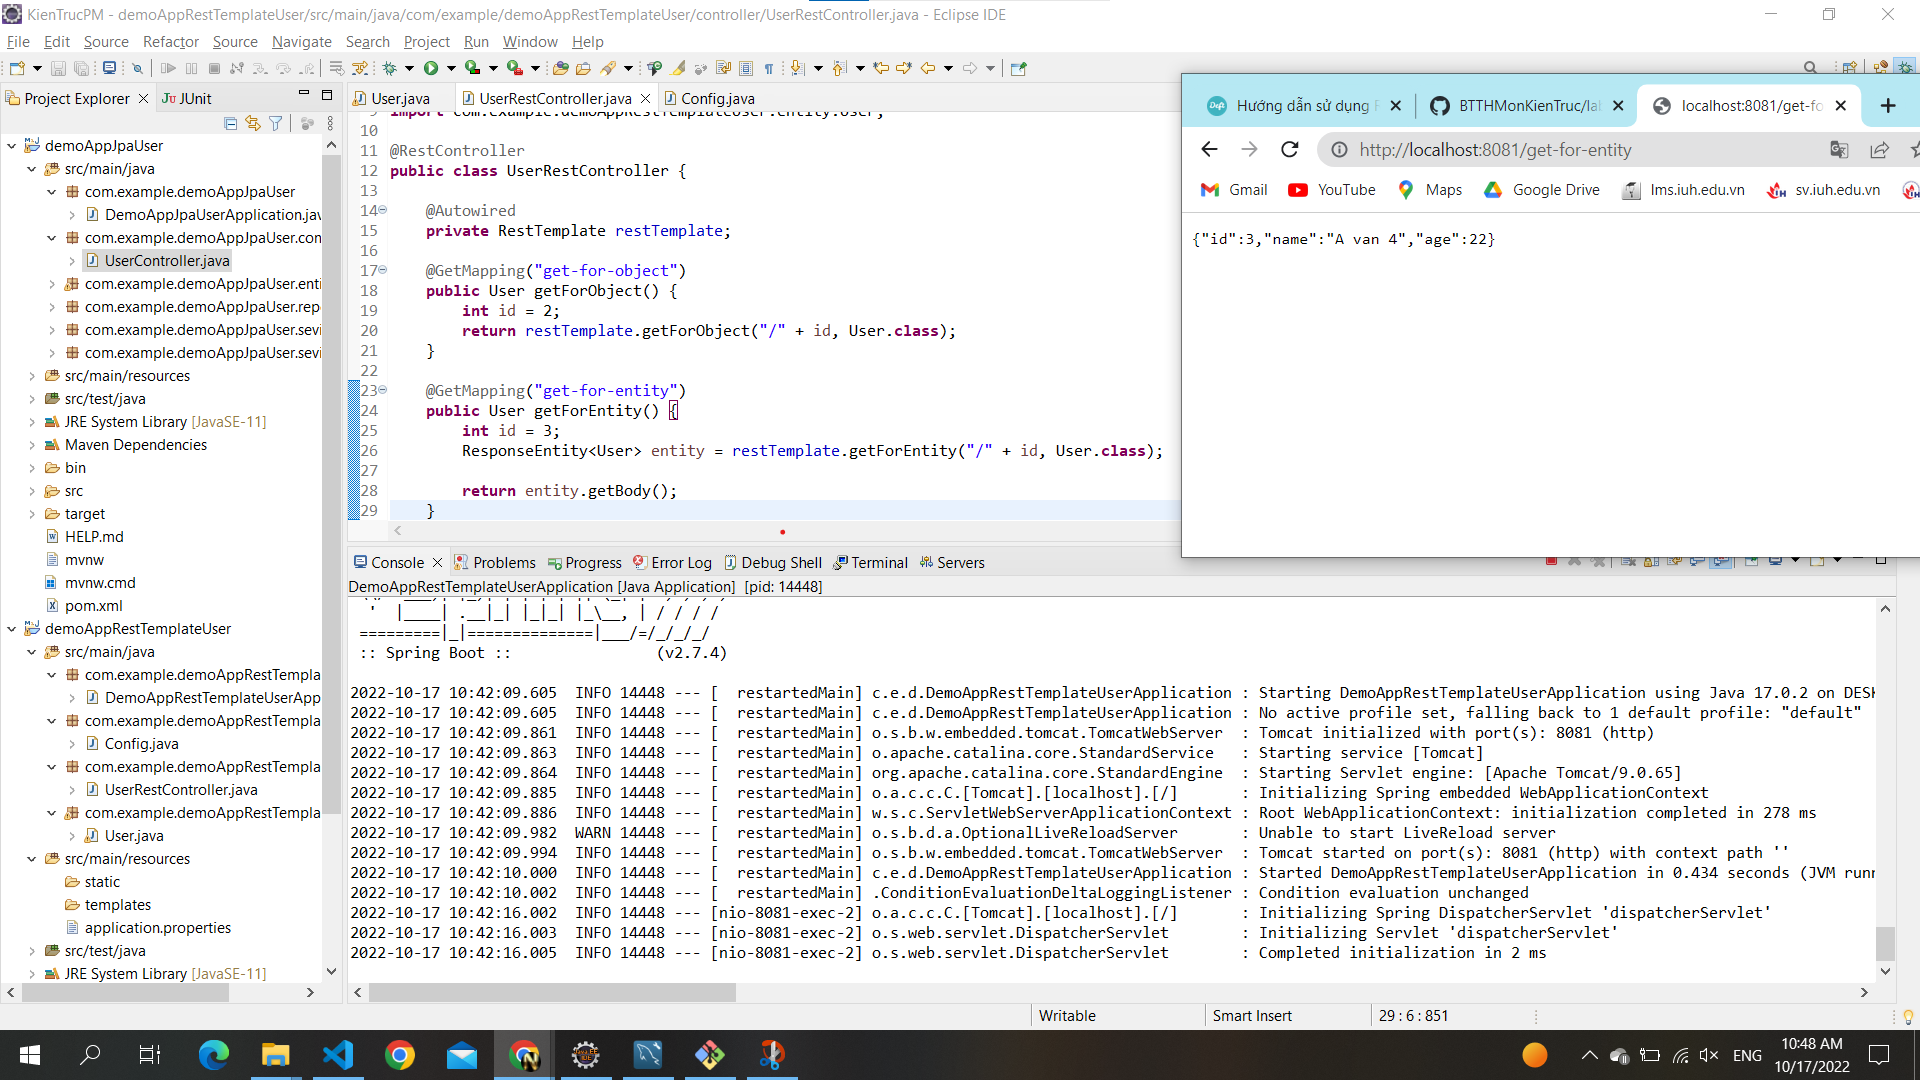
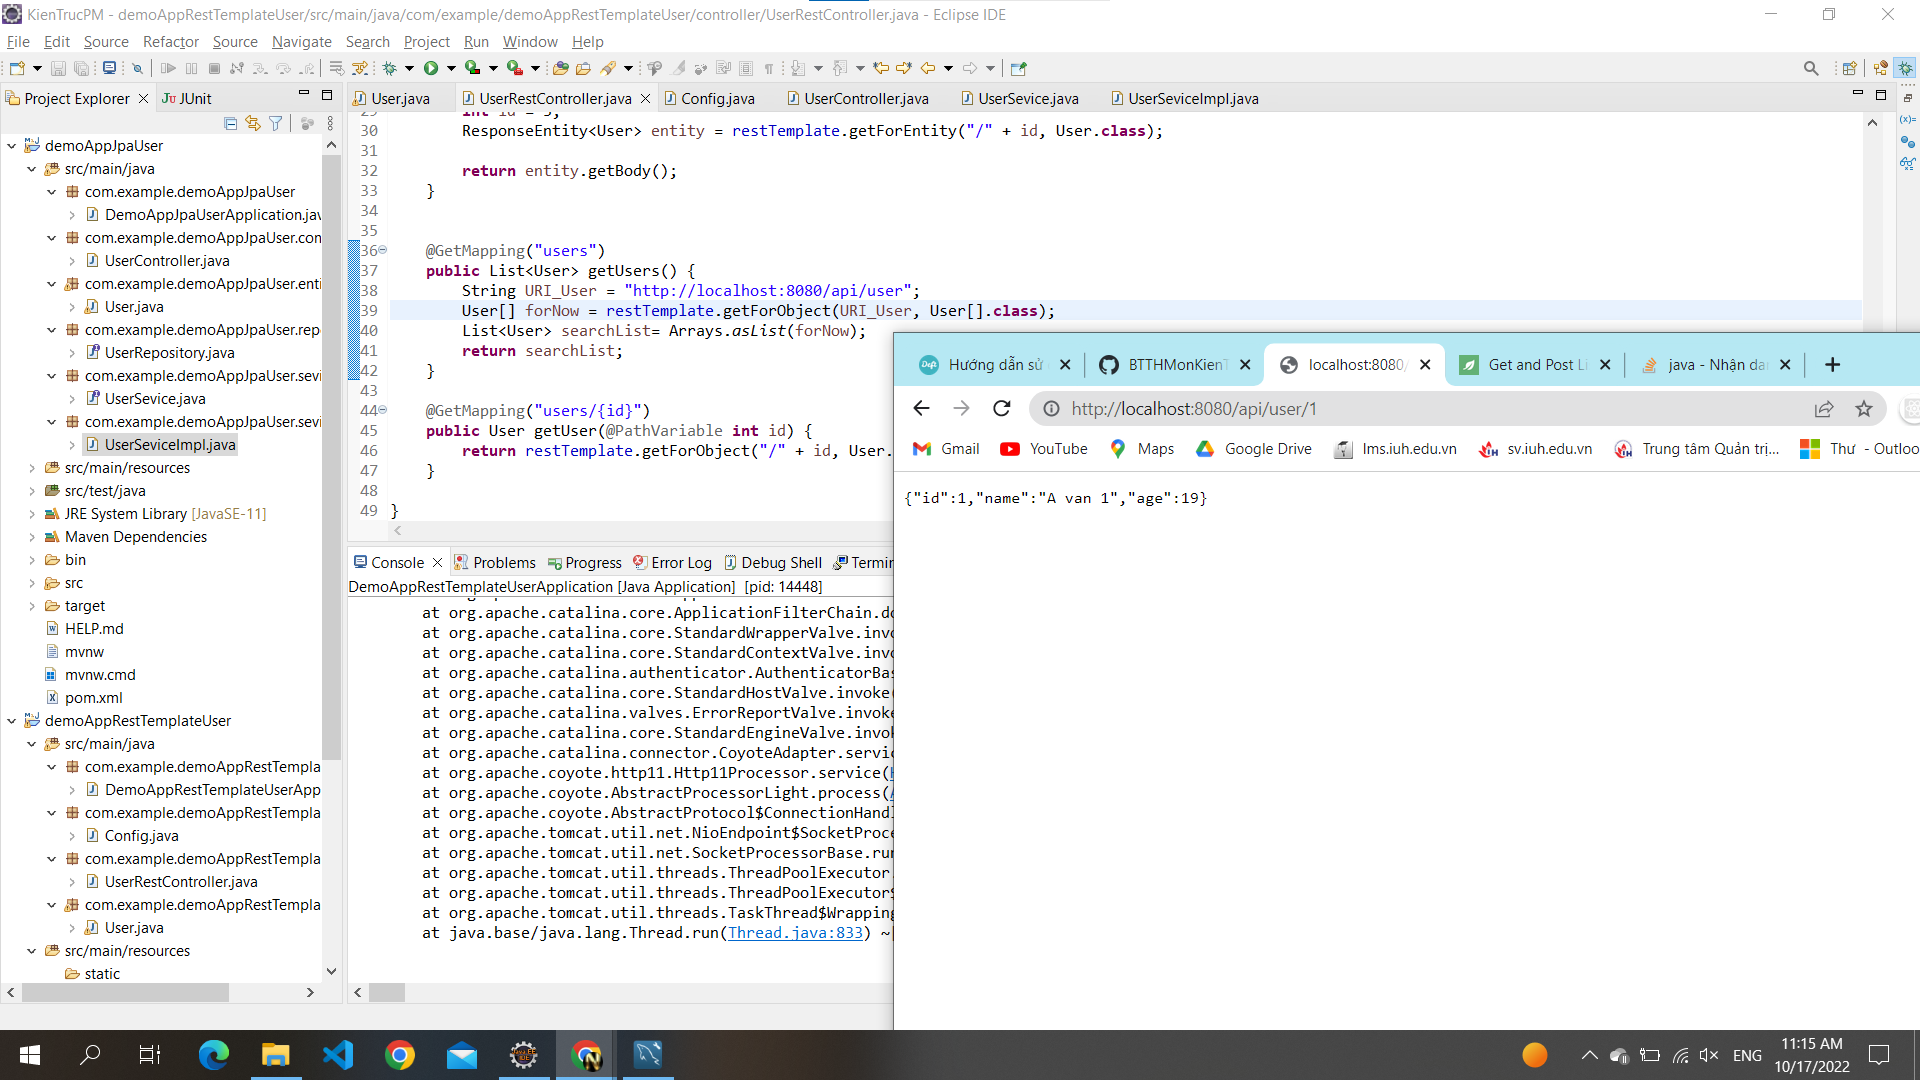
finish: getAll, addUser - RestTemplate

diff --git a/demoAppRestTemplateUser/src/main/java/com/example/demoAppRestTemplateUser/controller/UserRestController.java b/demoAppRestTemplateUser/src/main/java/com/example/demoAppRestTemplateUser/controller/UserRestController.java
@@ -1,8 +1,15 @@
 package com.example.demoAppRestTemplateUser.controller;
 
+import java.util.Arrays;
+import java.util.List;
+
 import org.springframework.beans.factory.annotation.Autowired;
 import org.springframework.http.ResponseEntity;
 import org.springframework.web.bind.annotation.GetMapping;
+import org.springframework.web.bind.annotation.PathVariable;
+import org.springframework.web.bind.annotation.PostMapping;
+import org.springframework.web.bind.annotation.PutMapping;
+import org.springframework.web.bind.annotation.RequestBody;
 import org.springframework.web.bind.annotation.RestController;
 import org.springframework.web.client.RestTemplate;
 
@@ -27,5 +34,39 @@ public class UserRestController {
 
 		return entity.getBody();
 	}
+	
 
+	@GetMapping("users")
+	public List<User> getUsers() {
+		String URI_User = "http://localhost:8080/api/user";
+		User[] forNow = restTemplate.getForObject(URI_User, User[].class);
+		List<User> searchList= Arrays.asList(forNow);
+		return searchList;
+	}
+	
+	@GetMapping("users/{id}")
+	public User getUser(@PathVariable int id) {
+		return restTemplate.getForObject("/" + id, User.class);
+	}
+	//
+	
+	@PostMapping("/users") //post-for-object
+	public User addEmployee(@RequestBody User user) {
+		return restTemplate.postForObject("/", user, User.class);
+
+	}
+	
+	//
+	@PutMapping("/users")
+	public void put(@RequestBody User user) {
+		restTemplate.put("/" + user.getId(), User.class);
+		
+//	    Employee employee = new Employee();
+//	    employee.setId(id);
+//	    employee.setFirstName("Deft");
+//	    employee.setLastName("blog");
+//	    employee.setYearlyIncome(2021);
+//	    restTemplate.put("/" + id, employee);
+	}
+	
 }

diff --git a/demoAppJpaUser/src/main/java/com/example/demoAppJpaUser/sevice/Impl/UserSeviceImpl.java b/demoAppJpaUser/src/main/java/com/example/demoAppJpaUser/sevice/Impl/UserSeviceImpl.java
@@ -34,7 +34,8 @@ public class UserSeviceImpl implements UserSevice{
 			a = result.get();
 		}
 		else {
-			throw new RuntimeException("khonog tim thay ma"+ maTim);
+			throw new RuntimeException("khonog tim thay ma - "+ maTim);
+//			return null;
 		}
 		
 		return a;

diff --git a/demoAppJpaUser/src/main/java/com/example/demoAppJpaUser/controller/UserController.java b/demoAppJpaUser/src/main/java/com/example/demoAppJpaUser/controller/UserController.java
@@ -45,7 +45,7 @@ public class UserController {
 		User user = userSevice.findById(id);
 
 		if (user == null) {
-			throw new RuntimeException("Employee is not found - " + id);
+			throw new RuntimeException("User is not found - " + id);
 		}
 		return user;
 	}
